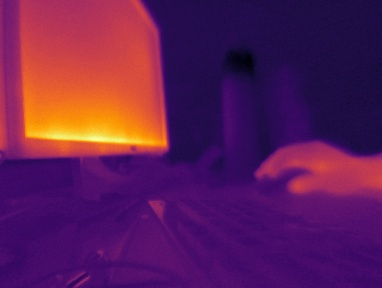
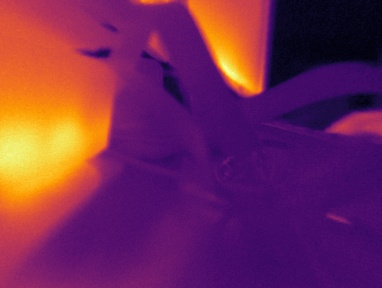
updated code

diff --git a/software/Record/README.md b/software/Record/README.md
@@ -3,14 +3,24 @@ LabVIEW code to operate Optris thermal cameras.
 
 The software development kit (SDK) must be installed for the code to function.
 
+Implementation of camera preview footage in LabVIEW is in progress.
+
 To use:
+<<<<<<< Updated upstream
 1. Open `thermalCamera.vi`.
 2. Run the VI.
 3. Wait for the terminal to indicate that both video and socket servers are listening.
 4. Click **Connect Client** to connect server.
 5. Wait for terminal to indicate that camera calibration has been complete and temperatures are reliable. 
 6. Press Record
+=======
+1. Open `thermalCamera.vi`
+2. Set the server path to `imagerServer.py`.
+3. Run the VI.
+4. Wait for the terminal to indicate that the thermal data is ready.
+5. Click **Connect Client** to enable the recording features.
+>>>>>>> Stashed changes
 
 > **Note:** Before recording, press `flag` for best temperature accuracy. 
-> Also stop button does not work so press the one at the top.
+
 
